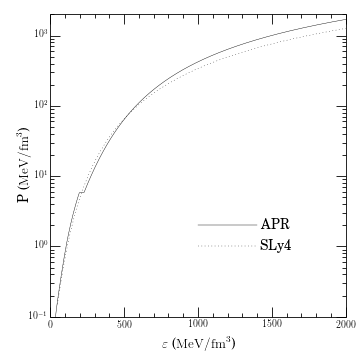
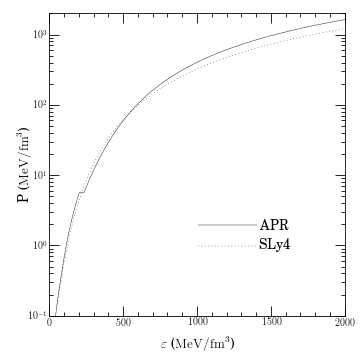
[dev] Filename cleanup in ex_eos_had.

Changed region(s): [[0.0917, 0.0306, 1.0, 0.9167], [0.7028, 0.5806, 0.825, 0.7028], [0.4278, 0.9167, 0.6722, 0.9778]]

diff --git a/examples/plot/ex_eos_had_plot.py b/examples/plot/ex_eos_had_plot.py
@@ -50,7 +50,7 @@ if len(sys.argv)<2 or sys.argv[1]=='eos':
     plot.semilogy(ed,pr,color='black',ls='-')
     
     # Read SLy4 EOS data
-    dset=o2py.h5read_first_type('../ex_eos_had_skyrme_SLy4_eos.o2','table')
+    dset=o2py.h5read_first_type('../skyrme_SLy4_eos.o2','table')
 
     # Multiply both columns by hbar*c
     ed=dset['data/ed'].value
@@ -146,7 +146,7 @@ if len(sys.argv)>1 and sys.argv[1]=='mvsr':
     plot.plot(r,gm,color='black',ls='-')
 
     # Read SLy4 M-R data
-    dset=o2py.h5read_first_type('../ex_eos_had_skyrme_SLy4_mvsr.o2','table')
+    dset=o2py.h5read_first_type('../skyrme_SLy4_mvsr.o2','table')
     
     gm=dset['data/gm'].value
     r=dset['data/r'].value

diff --git a/src/other/o2py.py b/src/other/o2py.py
@@ -88,10 +88,7 @@ def h5read_type_named(fname,loc_type,name):
     return
 
 def default_plot(lmar=0.14,bmar=0.12,rmar=0.04,tmar=0.04):
-    """
-    Works on mac, but not on riddler...
     plot.rc('text',usetex=True)
-    """
     plot.rc('font',family='serif')
     plot.rcParams['lines.linewidth']=0.5
     fig=plot.figure(1,figsize=(6.0,6.0))

diff --git a/examples/ex_eos_had_skyrme.cpp b/examples/ex_eos_had_skyrme.cpp
@@ -189,7 +189,7 @@ public:
     fd.html_mode();
 
     output_files=false;
-    file_prefix="ex_eos_had_skyrme_";
+    file_prefix="skyrme_";
   }
 
   /** \brief Generate a table comparing neutron matter and neutron 
